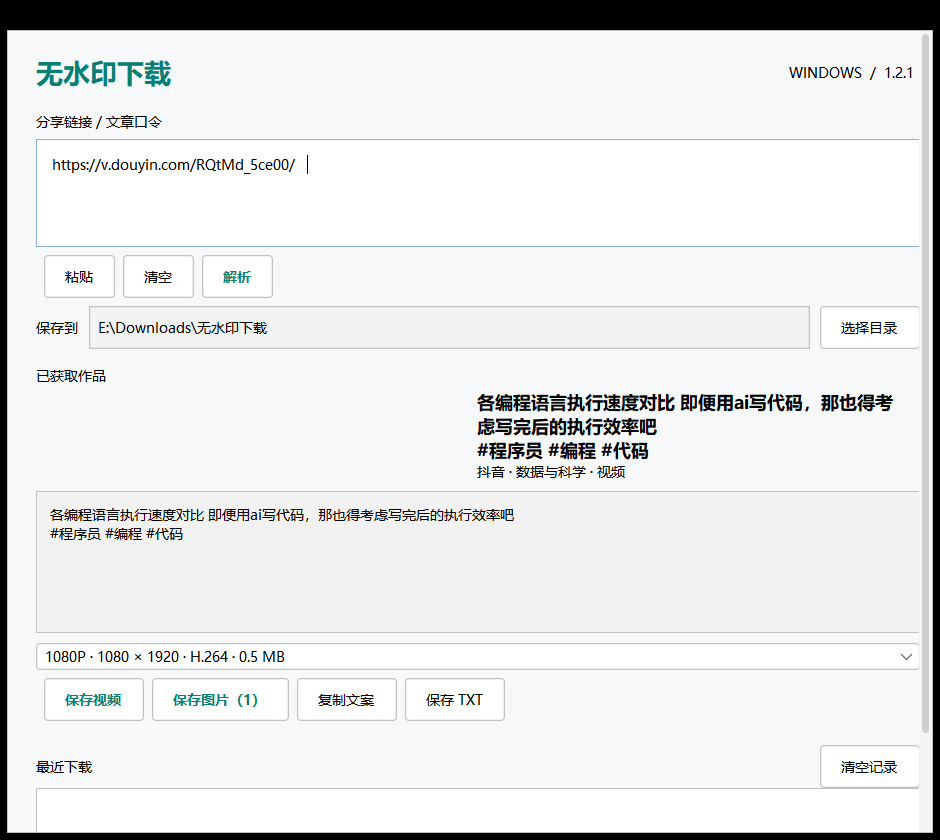
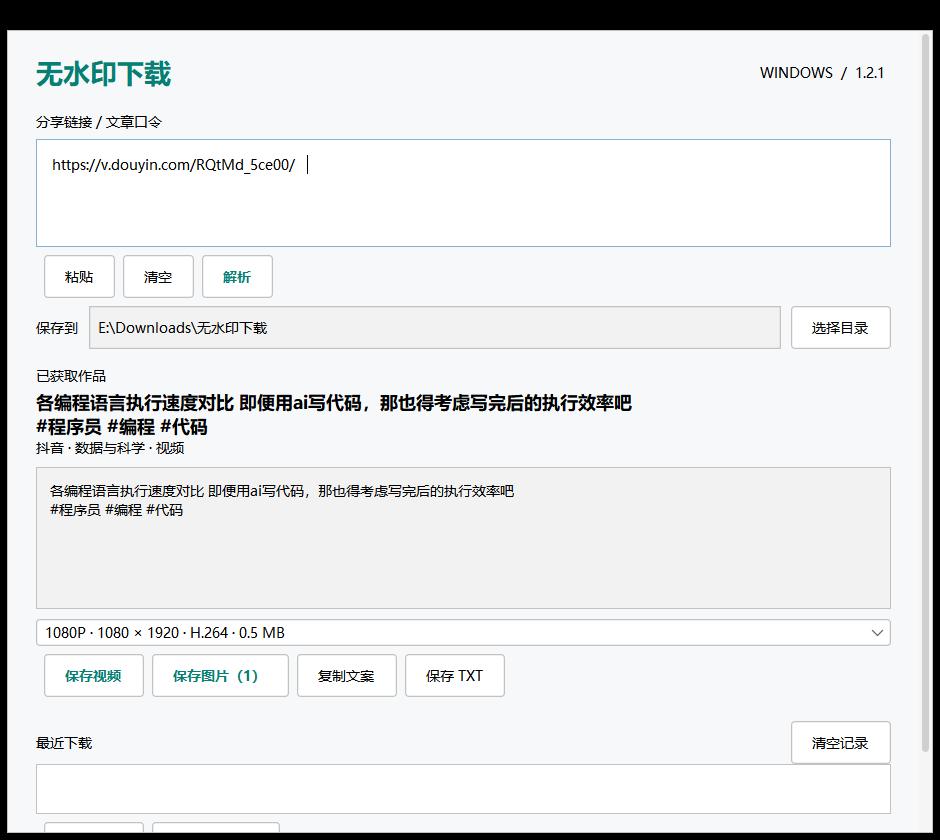
Align desktop result content and update verified screenshot

diff --git a/desktop/src/cn/dousave/desktop/DesktopApp.java b/desktop/src/cn/dousave/desktop/DesktopApp.java
@@ -4,6 +4,7 @@ import cn.dousave.app.VideoInfo;
 import cn.dousave.app.VideoResolver;
 import java.awt.BorderLayout;
 import java.awt.Color;
+import java.awt.Component;
 import java.awt.Desktop;
 import java.awt.Dimension;
 import java.awt.FlowLayout;
@@ -259,6 +260,11 @@ public final class DesktopApp extends JFrame {
         saveActions.add(copy);
         saveActions.add(text);
         result.add(saveActions);
+        for (Component component : result.getComponents()) {
+            if (component instanceof javax.swing.JComponent) {
+                ((javax.swing.JComponent) component).setAlignmentX(0);
+            }
+        }
         result.setVisible(false);
         content.add(result);
         JPanel transfer = new JPanel(new BorderLayout(10, 0));
